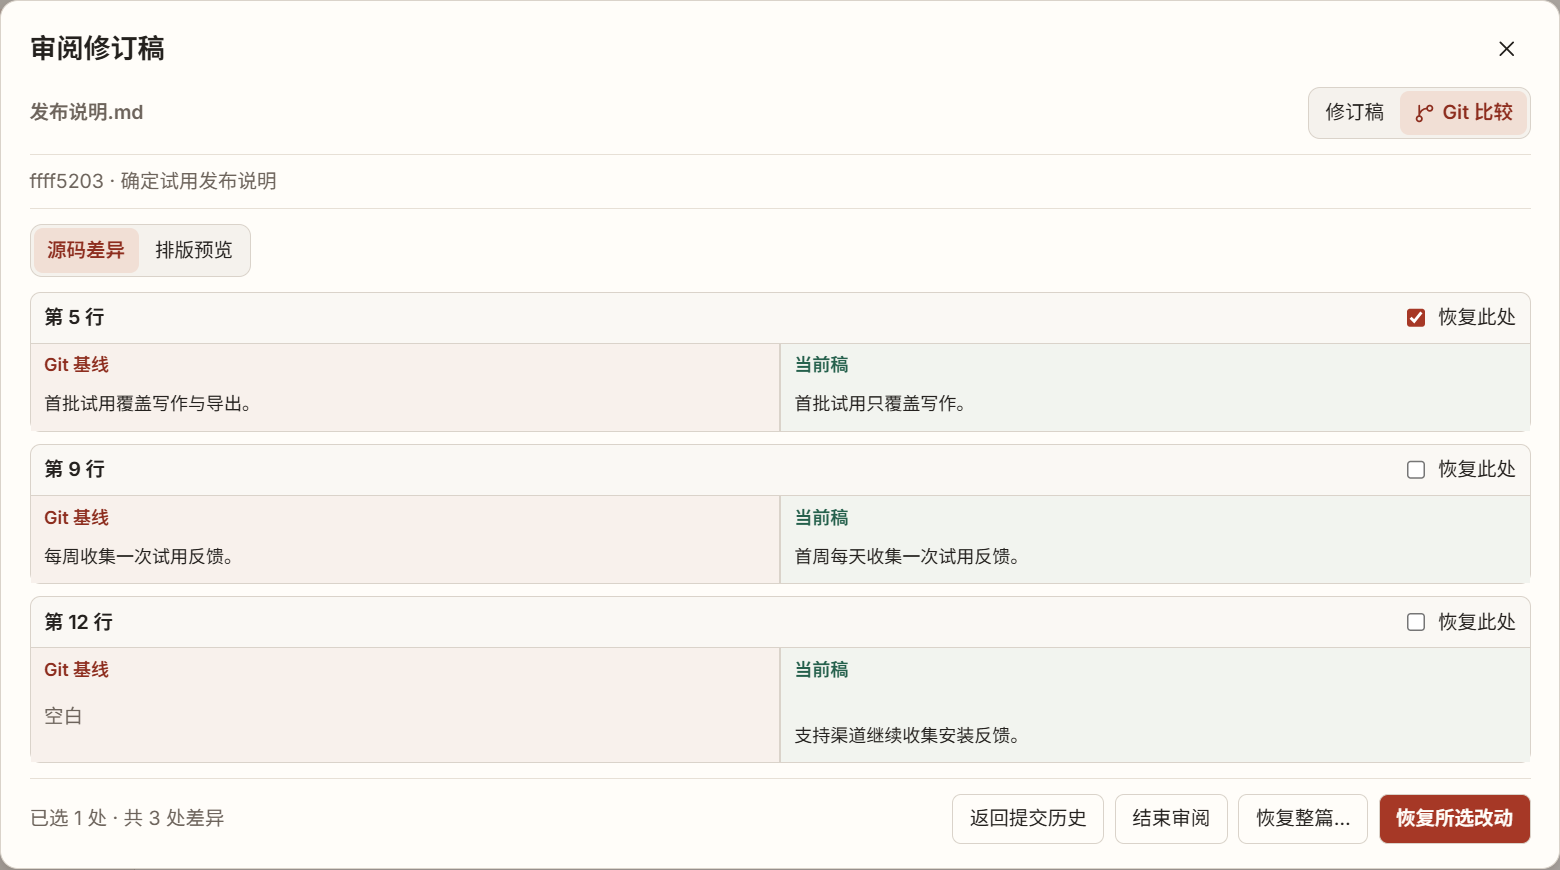
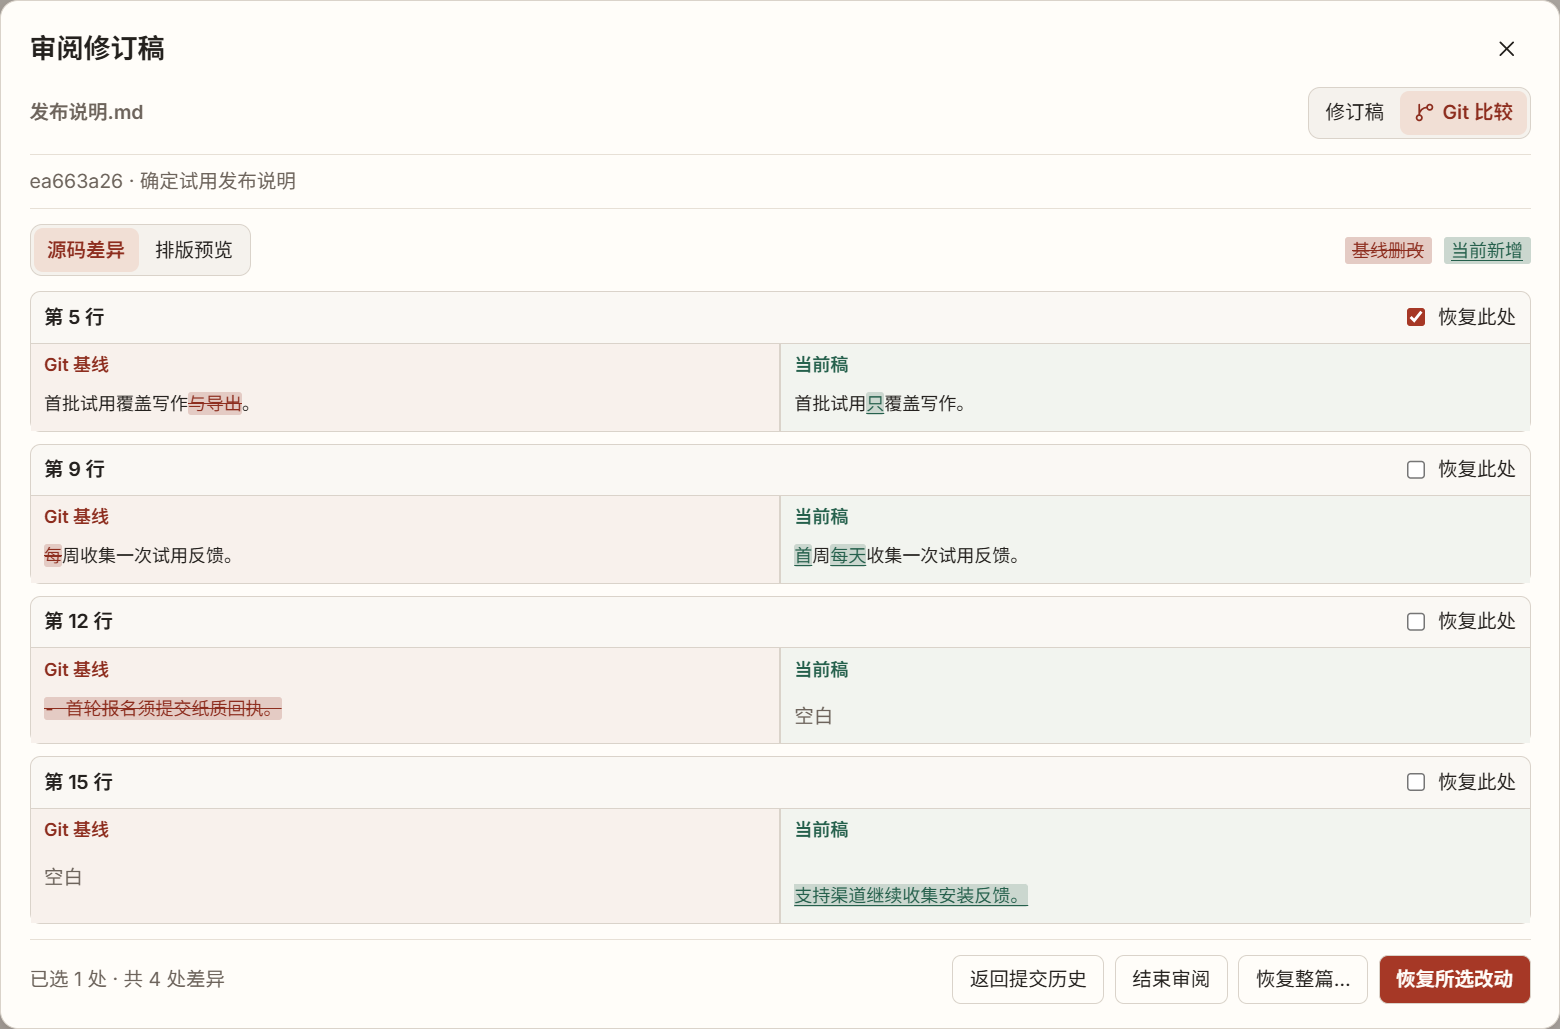
Highlight inline text changes in Git reviews

diff --git a/src/review/ReviewDialog.jsx b/src/review/ReviewDialog.jsx
@@ -4,6 +4,7 @@ import { renderPreview } from '../editor/render-document.js'
 import { Modal } from '../ui/Controls.jsx'
 import { MAX_LIVE_LENGTH } from '../workspace/text.js'
 import { applyReview, buildReview, selectionOverwritesUnsavedChanges } from './model.js'
+import { buildInlineDiff } from './inline-diff.js'
 import './review.css'
 
 const changesPerPage = 24
@@ -26,10 +27,20 @@ async function readLocalCandidate(file) {
   }
 }
 
-function SourcePane({ title, text, kind = '' }) {
+function InlineSource({ parts, kind }) {
+  const Change = kind === 'is-before' ? 'del' : 'ins'
+  return parts.map(({ text, changed }, index) => changed ? <Change key={index} className="review-inline-change">
+    {text.trim() === '' && /[\r\n]/.test(text) && <span className="review-line-break" aria-hidden="true" title="换行变化"/>}
+    {text}
+  </Change> : text)
+}
+
+function SourcePane({ title, text, parts, kind = '' }) {
   return <div className={'review-source ' + kind}>
     <h4>{title}</h4>
-    {text === '' ? <p className="review-empty-source">空白</p> : <pre tabIndex={0} aria-label={title}>{text}</pre>}
+    {text === '' ? <p className="review-empty-source">空白</p> : <pre tabIndex={0} aria-label={title} className={parts ? 'has-inline-diff' : undefined}>
+      {parts ? <InlineSource parts={parts} kind={kind}/> : text}
+    </pre>}
   </div>
 }
 
@@ -40,6 +51,9 @@ function ChangeCard({ change, comparison, restoration, decision, decide, disable
     decision === 'accept' ? '已采纳' : decision === 'skip' ? '已跳过' : ''
   const leftTitle = comparison ? 'Git 基线' : ready ? sourceLabels.current : sourceLabels.base
   const rightTitle = comparison ? sourceLabels.current : sourceLabels.candidate
+  const leftText = restoration ? change.after : change.before
+  const rightText = restoration ? change.before : change.after
+  const inline = useMemo(() => comparison ? buildInlineDiff(leftText, rightText) : null, [comparison, leftText, rightText])
   return <li className={'review-change' + (conflict ? ' is-conflict' : '')}>
     <div className="review-change-heading">
       <h3>第 {change.line} 行</h3>
@@ -55,9 +69,9 @@ function ChangeCard({ change, comparison, restoration, decision, decide, disable
       </label>}
     </div>
     <div className="review-source-grid">
-      <SourcePane title={leftTitle} text={restoration ? change.after : change.before} kind="is-before"/>
+      <SourcePane title={leftTitle} text={leftText} parts={inline?.before} kind="is-before"/>
       {conflict && <SourcePane title={sourceLabels.current} text={change.current}/>}
-      <SourcePane title={rightTitle} text={restoration ? change.before : change.after} kind="is-after"/>
+      <SourcePane title={rightTitle} text={rightText} parts={inline?.after} kind="is-after"/>
     </div>
   </li>
 }
@@ -320,6 +334,10 @@ export function ReviewDialog({ name, baseText, currentText, savedText = currentT
           <button type="button" aria-pressed={view === 'source'} onClick={() => setView('source')}>源码差异</button>
           <button type="button" aria-pressed={view === 'rendered'} onClick={() => setView('rendered')}>排版预览</button>
         </div>
+        {comparing && view === 'source' && changes.length > 0 && <div className="review-diff-key" role="group" aria-label="差异标记">
+          <span className="is-before"><del className="review-inline-change">基线删改</del></span>
+          <span className="is-after"><ins className="review-inline-change">当前新增</ins></span>
+        </div>}
         {!comparing && view === 'source' && ready.length > 0 && <div className="review-bulk">
           <button type="button" disabled={busy} onClick={() => decideAll('accept')}>采纳所有可用改动</button>
           <button type="button" disabled={busy} onClick={() => decideAll('skip')}>全部跳过</button>

diff --git a/src/review/inline-diff.js b/src/review/inline-diff.js
@@ -1,0 +1,96 @@
+import { diffArrays } from 'diff'
+
+const MAX_INLINE_LENGTH = 4_096
+const MAX_INLINE_LINES = 24
+const MAX_EDIT_DISTANCE = 64
+const graphemes = new Intl.Segmenter(undefined, { granularity: 'grapheme' })
+
+function appendSpan(spans, text, changed) {
+  if (!text) return
+  const last = spans.at(-1)
+  if (last?.changed === changed) last.text += text
+  else spans.push({ text, changed })
+}
+
+function appendWhole(result, before, after) {
+  const changed = before !== after
+  appendSpan(result.before, before, changed)
+  appendSpan(result.after, after, changed)
+}
+
+function tokenize(text) {
+  const tokens = []
+  let previousKind = ''
+  const leadingEnd = text.length - text.trimStart().length
+  const trailingStart = text.trimEnd().length
+  for (const { segment, index } of graphemes.segment(text)) {
+    // Words and numbers read as units in code; punctuation and CJK remain granular.
+    const kind = /^\p{Script=Latin}\p{Mark}*$/u.test(segment) ? 'word' : /^\p{Decimal_Number}$/u.test(segment) ? 'number' : ''
+    // Indentation and trailing spaces should never match each other across a line's text.
+    const edge = /^[\t ]$/.test(segment) && (index < leadingEnd ? 'start' : index >= trailingStart ? 'end' : '')
+    if (kind && kind === previousKind) tokens[tokens.length - 1].text += segment
+    else tokens.push({ text: segment, edge })
+    previousKind = kind
+  }
+  return tokens
+}
+
+function contentLength(tokens) {
+  return tokens.reduce((count, token) => count + Number(/\S/u.test(token.text)), 0)
+}
+
+function similarEnough(parts, oldTokens, newTokens) {
+  const smaller = Math.min(contentLength(oldTokens), contentLength(newTokens))
+  if (smaller <= 2) return true
+  // Ignore matches made only of spacing when judging whether a replacement is related.
+  const shared = parts.reduce((count, part) => part.added || part.removed ? count : count + contentLength(part.value), 0)
+  return shared * 2 >= smaller
+}
+
+function appendComparison(result, before, after) {
+  if (!before || !after || before === after) {
+    appendWhole(result, before, after)
+    return
+  }
+
+  const oldTokens = tokenize(before)
+  const newTokens = tokenize(after)
+  const parts = diffArrays(oldTokens, newTokens, {
+    comparator: (oldToken, newToken) => oldToken.text === newToken.text && oldToken.edge === newToken.edge,
+    maxEditLength: MAX_EDIT_DISTANCE,
+  })
+  if (!parts || !similarEnough(parts, oldTokens, newTokens)) {
+    appendWhole(result, before, after)
+    return
+  }
+
+  for (const part of parts) {
+    const text = part.value.map(token => token.text).join('')
+    if (!part.added) appendSpan(result.before, text, Boolean(part.removed))
+    if (!part.removed) appendSpan(result.after, text, Boolean(part.added))
+  }
+}
+
+/** Build display spans without changing either side's original text. */
+export function buildInlineDiff(before, after) {
+  const result = { before: [], after: [] }
+  if (!before || !after || before === after || before.length + after.length > MAX_INLINE_LENGTH) {
+    appendWhole(result, before, after)
+    return result
+  }
+
+  const linePattern = /[^\r\n]+(?:\r\n|[\r\n])?|\r\n|[\r\n]/g
+  const oldLines = before.match(linePattern)
+  const newLines = after.match(linePattern)
+  if (Math.max(oldLines.length, newLines.length) > MAX_INLINE_LINES) {
+    appendWhole(result, before, after)
+  } else if (oldLines.length !== newLines.length) {
+    // Keep common text when a replacement also inserts or removes a line.
+    appendComparison(result, before, after)
+  } else {
+    for (let index = 0; index < oldLines.length; index++) {
+      appendComparison(result, oldLines[index], newLines[index])
+    }
+  }
+  return result
+}

diff --git a/src/review/inline-diff.test.js b/src/review/inline-diff.test.js
@@ -1,0 +1,75 @@
+import assert from 'node:assert/strict'
+import test from 'node:test'
+import { buildInlineDiff } from './inline-diff.js'
+
+function assertSpans(before, after, expectedBefore, expectedAfter) {
+  const spans = buildInlineDiff(before, after)
+  for (const [side, text, expected] of [['before', before, expectedBefore], ['after', after, expectedAfter]]) {
+    assert.equal(spans[side].map(span => span.text).join(''), text)
+    assert.ok(spans[side].every(span => typeof span.changed === 'boolean' && span.text.length))
+    assert.deepEqual(spans[side].filter(span => span.changed).map(span => span.text), expected)
+  }
+}
+
+test('highlights only changed Chinese characters in a Markdown heading', () => {
+  assertSpans('# 当前版 发布计划\n', '# 历史版 发布计划\n', ['当前'], ['历史'])
+})
+
+test('compares adjacent code lines using independent word, number and punctuation tokens', () => {
+  assertSpans(
+    'const timeoutMs = 250;\r\nreturn load();\n',
+    'const intervalMs = 500;\r\nreturn load[];\n',
+    ['timeoutMs', '250', '()'],
+    ['intervalMs', '500', '[]'],
+  )
+})
+
+test('preserves tabs, trailing spaces and mixed line endings exactly', () => {
+  assertSpans(
+    '\talpha  \r\nbeta\t\rgamma\n',
+    '  alpha\t\r\nbeta \rgamma',
+    ['\t', '  ', '\t', '\n'],
+    ['  ', '\t', ' '],
+  )
+  assertSpans('item\r\n', 'item\n', ['\r\n'], ['\n'])
+})
+
+test('keeps emoji sequences, skin tones and combining characters intact', () => {
+  assertSpans(
+    '里程碑验证 👩💻 👍🏽 e\u0301\n',
+    '里程碑验证 👩🚀 👍🏻 e\u0300\n',
+    ['👩💻', '👍🏽', 'e\u0301'],
+    ['👩🚀', '👍🏻', 'e\u0300'],
+  )
+})
+
+test('preserves unchanged content when a multi-line edit adds or removes a line', () => {
+  const before = '# 旧值一行\n'
+  const after = '# 新值一行\n- 新增一行\n'
+  assertSpans(before, after, ['旧'], ['新', '- 新增一行\n'])
+  assertSpans(after, before, ['新', '- 新增一行\n'], ['旧'])
+})
+
+test('uses one changed span for a pure insertion or deletion and keeps identical text neutral', () => {
+  const text = '# 草稿\n\n- 新内容  \r\n'
+  assertSpans('', text, [], [text])
+  assertSpans(text, '', [text], [])
+  assert.deepEqual(buildInlineDiff('', ''), { before: [], after: [] })
+  const unchanged = [{ text, changed: false }]
+  assert.deepEqual(buildInlineDiff(text, text), { before: unchanged, after: unchanged })
+})
+
+test('falls back to whole ranges for unrelated text and over-budget hunks', () => {
+  const unrelatedBefore = 'alpha beta gamma\n'
+  const unrelatedAfter = 'delta theta omega\n'
+  assertSpans(unrelatedBefore, unrelatedAfter, [unrelatedBefore], [unrelatedAfter])
+
+  const largeBefore = '旧'.repeat(1_000_000)
+  const largeAfter = '新'.repeat(1_000_000)
+  assertSpans(largeBefore, largeAfter, [largeBefore], [largeAfter])
+
+  const shared = '相同'.repeat(50)
+  const divergentBefore = shared + '旧'.repeat(40)
+  const divergentAfter = shared + '新'.repeat(40)
+  assertSpans(divergentBefore, divergentAfter, [divergentBefore], [divergentAfter])
+})

diff --git a/src/review/review.css b/src/review/review.css
@@ -152,6 +152,23 @@
   font: 12px/1.5 var(--mono);
 }
 
+.review-source pre.has-inline-diff { white-space: break-spaces; }
+.review-change .is-before, .review-diff-key .is-before { --difference-ink: var(--removed-ink); }
+.review-change .is-after, .review-diff-key .is-after { --difference-ink: var(--added-ink); }
+
+.review-inline-change {
+  border-radius: 2px;
+  color: var(--difference-ink);
+  background: color-mix(in srgb, var(--surface) 76%, var(--difference-ink));
+}
+
+del.review-inline-change { text-decoration: line-through; }
+ins.review-inline-change { text-decoration: underline; text-underline-offset: .15em; }
+.review-line-break { user-select: none; }
+.review-line-break::before { content: "↵"; }
+.review-diff-key { display: inline-flex; gap: 8px; font-size: 12px; }
+.review-diff-key .review-inline-change { padding: 2px 5px; }
+
 .review-source pre:focus-visible { outline-offset: -2px; }
 .review-empty-source, .review-notice { margin: 0; padding: 8px 9px; color: var(--muted); }
 .review-pager { justify-content: center; color: var(--muted); }

diff --git a/docs/desktop-interaction-acceptance.md b/docs/desktop-interaction-acceptance.md
@@ -86,6 +86,7 @@
 | `WF-06` 文档的 Git 提交历史 | 在标签页右击已跟踪文档，核对提交说明及顺序，确认列表只含当前文档的提交。点选更名前的一版，在源码差异和排版预览中比较未保存的当前稿，再返回历史选另一版。用 `Shift+F10` 在文件树为未打开的文档执行同一操作，原文档保持为当前标签。 | Windows Electron 实测通过，包括未跟踪、仓库外两种提示，以及磁盘内容、暂存区和 HEAD 核对。后端真实 Git 测试另覆盖空仓库、删除记录、分页和 HEAD 移动后的旧分页。见 `check-git-document-history-desktop.mjs`、`electron/git-document-history.test.cjs`。 |
 | `WF-07` 从 Git 历史选取改动 | 关闭自动保存，准备一份包含多处差异和未保存编辑的文档。从标签页或文件树进入历史，零选择时确认 **恢复所选改动** 禁用。选中含未保存内容的差异，核对提示和取消。改选独立的一处，用 **排版预览 → 只预览选中的恢复** 查看将得到的内容，再应用、撤销、重新应用并保存重开。 | Windows Electron 通过两个入口、选择和取消、预览开关、保留未选中的内容和未保存稿、撤销及保存重开后的原文比对。审阅模型单元测试另覆盖段落、列表和代码差异的未保存修改判断。见 `check-git-document-history-desktop.mjs`、`src/review/model.test.js`。 |
 | `WF-08` 恢复 Git 历史整版 | 当前稿有未保存编辑时打开 **恢复整篇…**。核对覆盖提示和取消按钮的默认焦点。先取消并确认当前稿与选择，再确认恢复，核对整版内容，撤销后重新恢复并保存重开。在确认打开时从外部修改一份已保存的文档，核对旧确认失效。 | Windows Electron 通过确认、取消、撤销和保存重开。实测外部改动会禁用原确认并清除过时的选择，已核对恢复前后的 `HEAD` 与暂存区。见 `check-git-document-history-desktop.mjs`。 |
+| `WF-09` Git 源码的行内差异 | 从提交历史或手动 **Git 比较** 打开一版。核对中文、单词、数字和标点的删改与新增，以及共同文字、整段增删和空白。切换排版预览，再回到源码并执行恢复。 | Windows Electron 已通过历史、`HEAD` 和标签入口，核对行内标记、共同文字和两栏原文，覆盖整行删除、未保存的新增、排版预览、恢复和撤销。单元测试另覆盖数字、空白、复合 emoji 和跨行增删。复测 `check-git-document-history-desktop.mjs`、`check-review-workflows-desktop.mjs`、`src/review/inline-diff.test.js`。 |
 
 ## Markdown 格式与渲染范围
 
